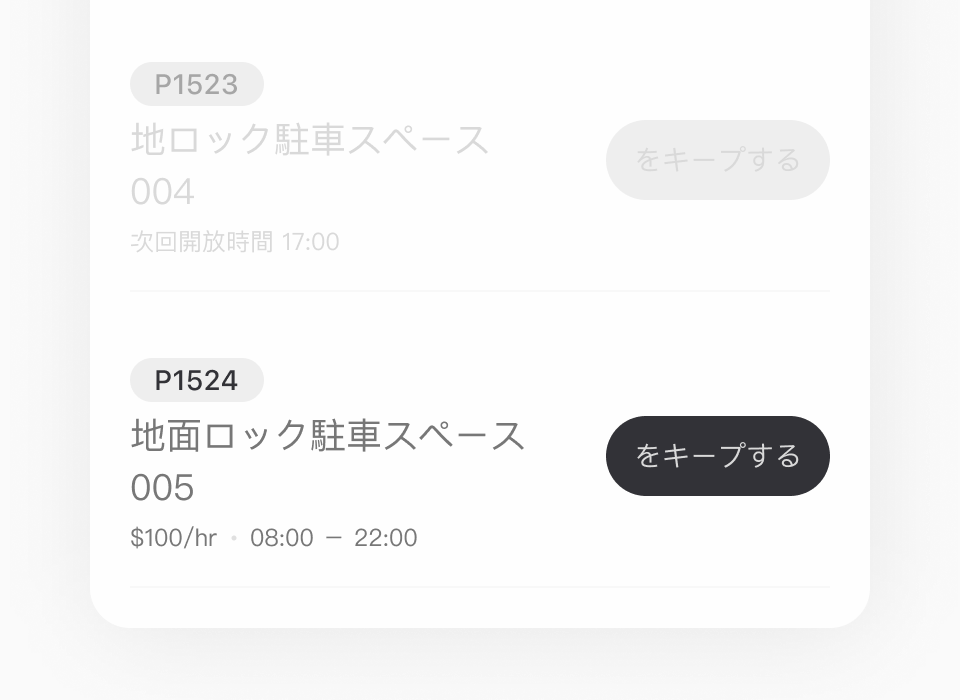
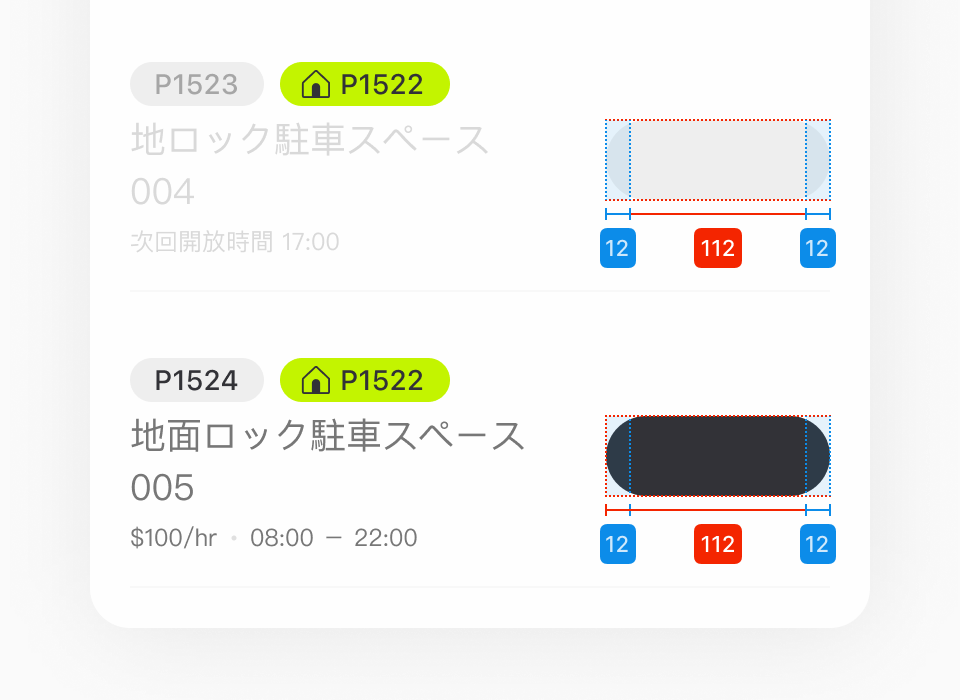
Re-export Button artwork and apply 12px padding to Regular
Re-exported all 24 images from Figma section 3726:8888 at scale 2. Eight
changed: measurements, toucharea, edge-case1 and edge-case2 in both themes.
The remaining sixteen are byte-identical to what was already committed.

The updated measurements sheet adds a Regular (48) example alongside the
Small (40) one, and it marks Regular's horizontal padding as 12 — same as
Small. The spec table claimed 0 and the widget only padded the small size.
Renamed layout.smallPaddingX to layout.paddingX and dropped the size branch
in the Padding.

Regular is a full-width button with centred content, so this only shows up
when the label approaches the container width: it now keeps a 12px inset
before the ellipsis instead of running to the edge.

diff --git a/styles/button.dart b/styles/button.dart
@@ -96,7 +96,10 @@ class USpaceButton extends StatelessWidget {
 
   /// small 貼合內容，但不小於這個寬度，否則一整排短標籤的按鈕會參差不齊
   static const double _smallMinWidth = 112;
-  static const double _smallPaddingX = USpaceSpacing.spacer12;
+
+  /// 兩種 size 共用的水平內距。regular 是滿版，這個值決定內容最靠邊的位置。
+  /// 量自 Figma node 3670:3165（2026-09-01 更新，該版才補上 regular 的標示）
+  static const double _paddingX = USpaceSpacing.spacer12;
   static const double _iconSize = 24;
 
   /// outlined 的描邊寬度。量自 Figma node 3734:15680 的 2 倍匯出圖
@@ -125,9 +128,7 @@ class USpaceButton extends StatelessWidget {
         child: SizedBox(
           height: isSmall ? _smallHeight : _height,
           child: Padding(
-            padding: isSmall
-                ? const EdgeInsets.symmetric(horizontal: _smallPaddingX)
-                : EdgeInsets.zero,
+            padding: const EdgeInsets.symmetric(horizontal: _paddingX),
             child: Row(
               mainAxisAlignment: MainAxisAlignment.center,
               mainAxisSize: MainAxisSize.min,

diff --git a/website/src/pages/components/ButtonPage.tsx b/website/src/pages/components/ButtonPage.tsx
@@ -74,7 +74,7 @@ function ButtonPreview({
         width: isSmall ? undefined : '100%',
         minWidth: isSmall ? layout.smallMinWidth : undefined,
         maxWidth: isSmall ? undefined : 350,
-        padding: isSmall ? `0 ${layout.smallPaddingX}px` : 0,
+        padding: `0 ${layout.paddingX}px`,
         borderRadius: 1000,
         background: colorOf(v.bg as string | null) ?? 'transparent',
         border: 'none',
@@ -323,9 +323,9 @@ export default function ButtonPage() {
                 ['寬度', '滿版', `貼合內容，最小 ${layout.smallMinWidth}px`, '—'],
                 [
                   '水平內距',
-                  '0',
-                  `${layout.smallPaddingX}px`,
-                  <code key="p">USpaceSpacing.spacer{layout.smallPaddingX}</code>,
+                  `${layout.paddingX}px`,
+                  `${layout.paddingX}px`,
+                  <code key="p">USpaceSpacing.spacer{layout.paddingX}</code>,
                 ],
                 [
                   'icon 與文字間距',

diff --git a/website/src/tokens/componentSpecs.ts b/website/src/tokens/componentSpecs.ts
@@ -126,7 +126,7 @@ export const buttonSpec: ComponentSpec = {
     "height": 48,
     "smallHeight": 40,
     "smallMinWidth": 112,
-    "smallPaddingX": 12,
+    "paddingX": 12,
     "iconSize": 24,
     "gap": 8
   }

diff --git a/website/src/tokens/version.ts b/website/src/tokens/version.ts
@@ -2,4 +2,4 @@
 // 來源：package.json 的 version
 // 重新產生：npm run gen:tokens（專案根目錄）
 
-export const version = '0.16.5';
+export const version = '0.16.6';

diff --git a/tracking/CHANGELOG.md b/tracking/CHANGELOG.md
@@ -11,6 +11,30 @@
 
 ---
 
+## v0.16.6 | 2026-09-01
+
+### 文件站 | Button 說明圖重新匯出，8 張有變動
+狀態：PUBLISHED
+
+- 從 Figma section 3726:8888（Button-MCPimages）以 scale 2 重新匯出全部 24 張。
+  比對後只有 8 張有變動：measurements、toucharea、edge-case1、edge-case2
+  的明暗兩張。其餘 16 張與現有檔案位元組完全相同。
+- measurements 新增了 Regular（48）的量測示範，原本只畫 Small（40）。
+- toucharea 補上 40 / 48 的高度標示，以及「依 Label 文字長度貼合內容」與
+  「依父容器滿版延伸」兩段說明。
+
+### button | Regular 補上 12px 水平內距
+狀態：PUBLISHED
+
+- 新版 measurements 圖標示出 Regular 的左右內距同樣是 12，與 Small 一致。
+  先前規格表寫 Regular 為 0，程式也只對 Small 套用內距。
+- `layout.smallPaddingX` 更名為 `layout.paddingX`，兩種 size 共用。
+  `styles/button.dart` 的 `Padding` 不再判斷 size。
+- 影響範圍：Regular 是滿版按鈕、內容置中，只有在標籤長到接近容器寬度時
+  才看得出差異——現在會先留 12 再截斷，不會貼齊邊緣。
+
+---
+
 ## v0.16.5 | 2026-09-01
 
 ### 文件網站 | 內容欄左右留白加倍
